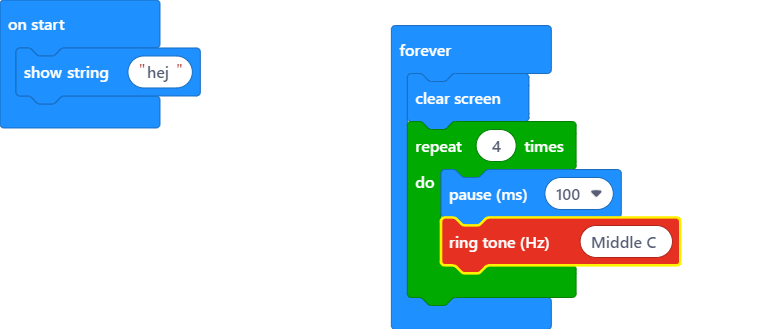
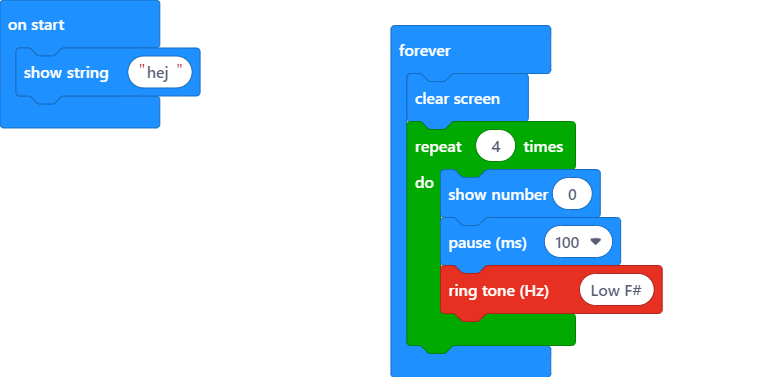
Update main.blocks, main.ts

Changed region(s): [[0.4804, 0.0608, 0.8708, 1.0], [0.0, 0.0, 0.2702, 0.3951], [0.0, 0.0304, 0.0901, 0.0912]]

diff --git a/main.ts b/main.ts
@@ -2,7 +2,8 @@ basic.showString("hej")
 basic.forever(function () {
     basic.clearScreen()
     for (let index = 0; index < 4; index++) {
+        basic.showNumber(0)
         basic.pause(100)
-        music.ringTone(262)
+        music.ringTone(185)
     }
 })
